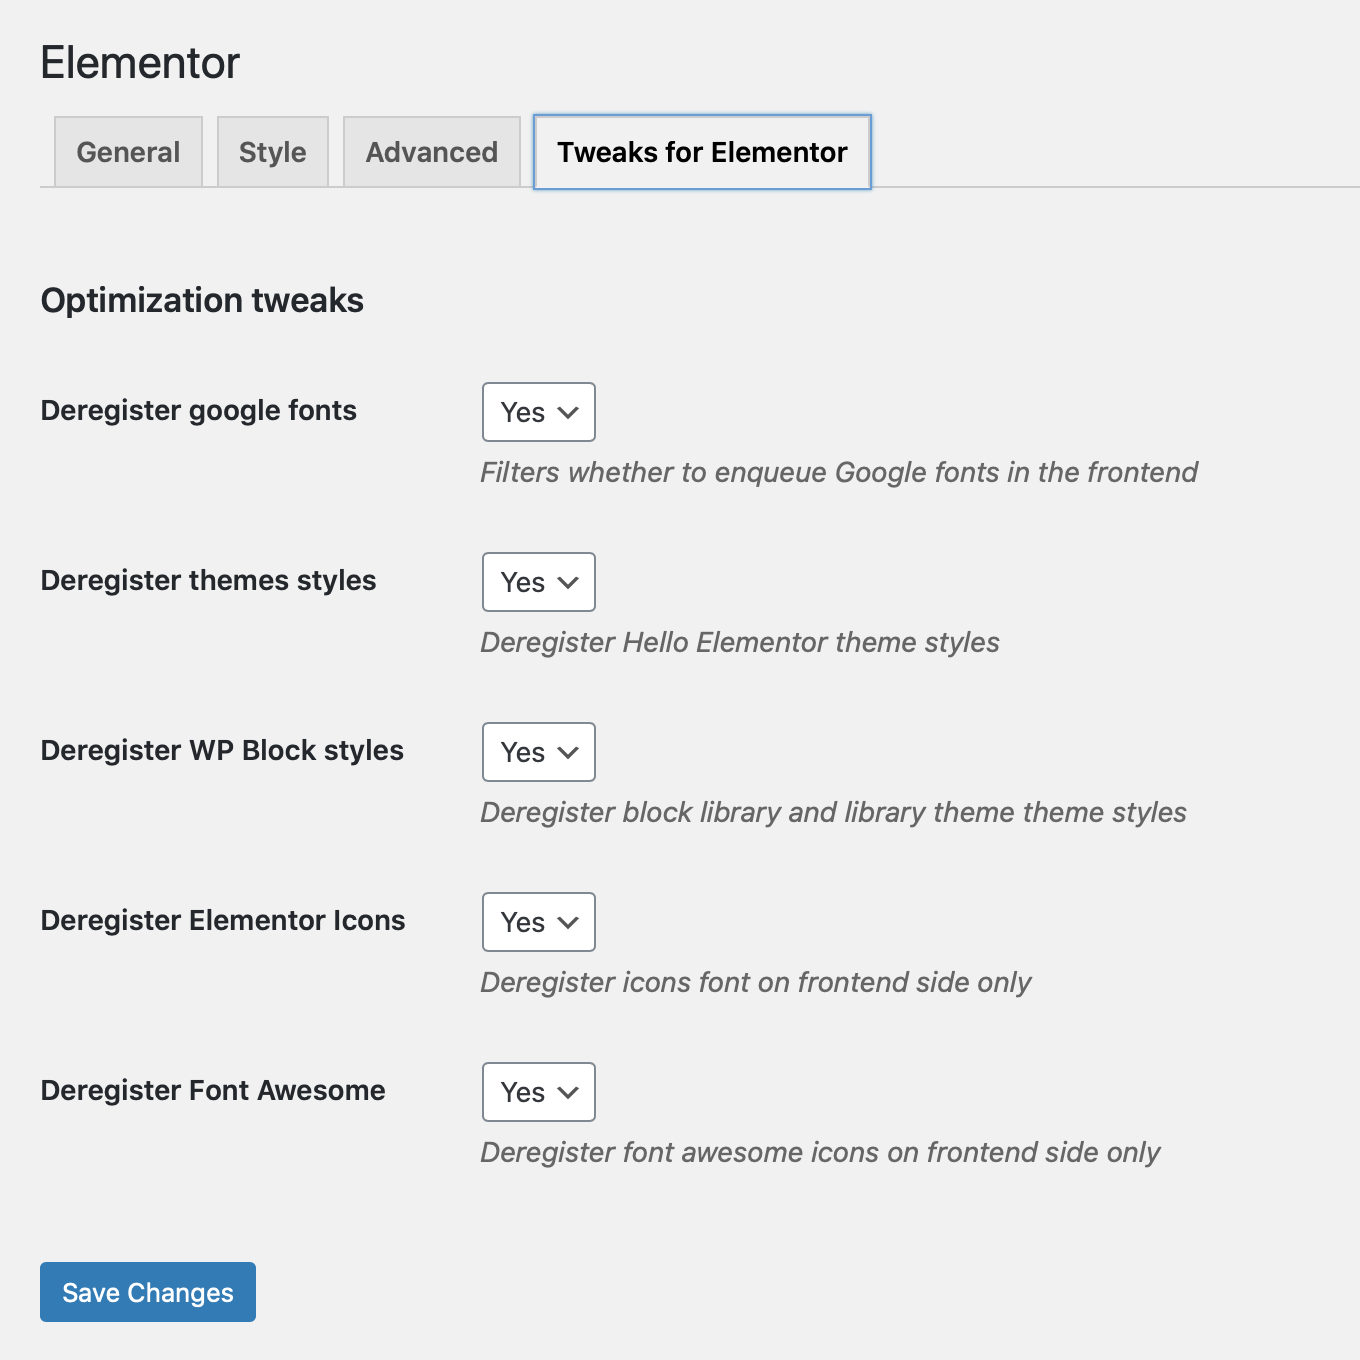
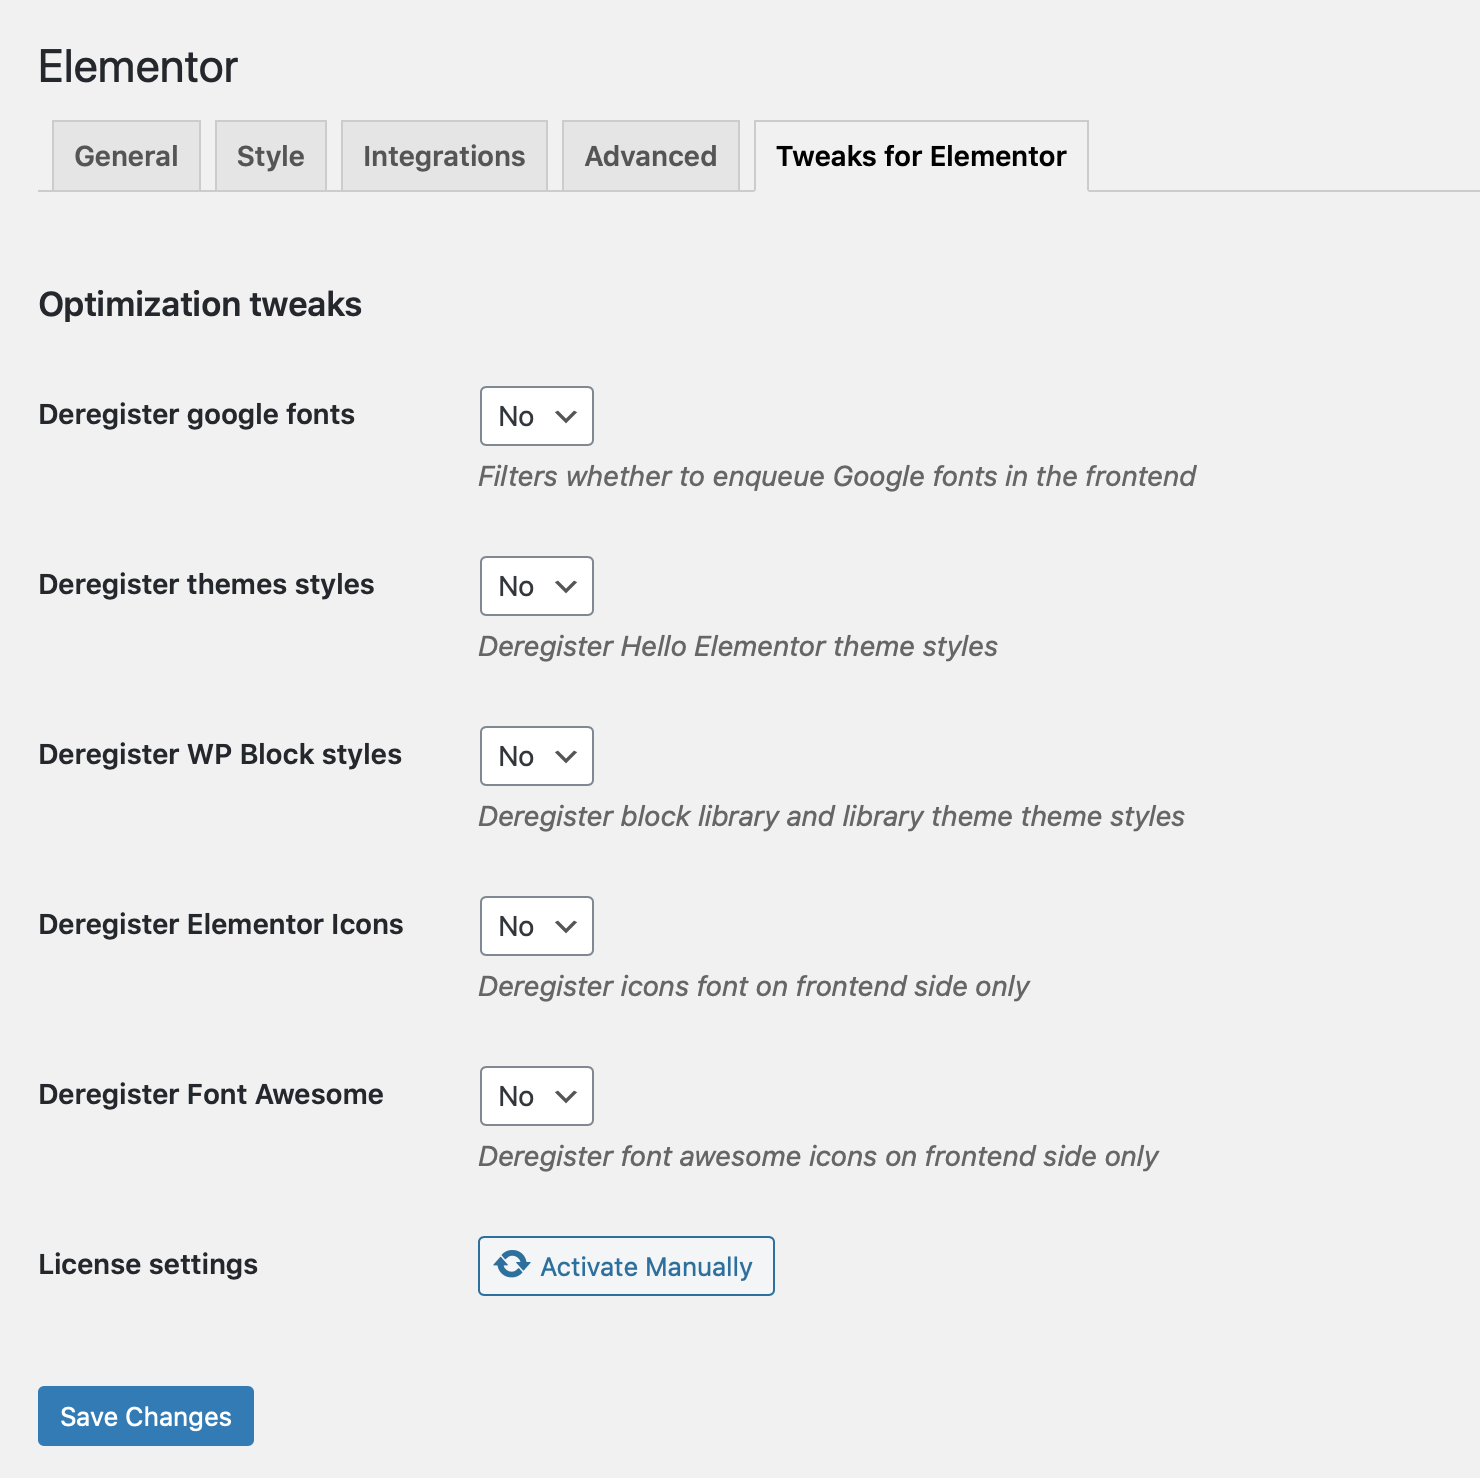
fix--plugin--screenshot update, readme.md changelog

diff --git a/README.md b/README.md
@@ -47,8 +47,10 @@ Tweaks for Elementor is simple plugin with few features to disable the default F
 
 ##### 1.0.1 (13.05.2020)
 * Fix: banner for wp.org
-* Fix: readme.txt changes 
+* Fix: readme.txt changes
+* New: Manual activation link
 * Tweak: Admin meta with link to GitHub repository
+* Tweak: Meta to plugin settings
 
 ##### 1.0.0 (12.05.2020)
 * Plugin init
